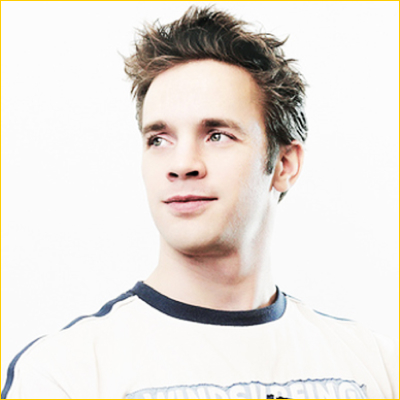
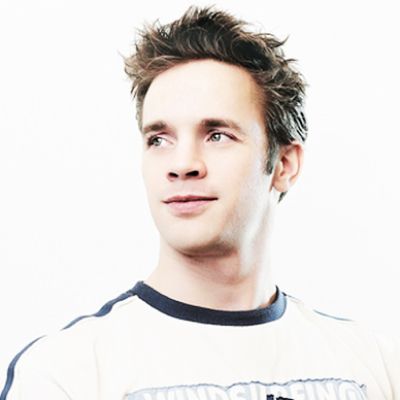
fixed after Viktor's comments

Changed region(s): [[0.0, 0.0, 1.0, 1.0], [0.0, 0.0, 0.03, 0.03]]

diff --git a/students/havrylova_kateryna/13_prepro/build/css/style.css b/students/havrylova_kateryna/13_prepro/build/css/style.css
@@ -99,17 +99,31 @@ body {
 }
 
 [class*=col-] {
-  padding: 85px;
+  padding: 15px;
   -webkit-box-sizing: border-box;
   box-sizing: border-box;
+}
+
+.person_info {
+  padding: 70px;
 }
 
 .border_right {
   border-right: 1px solid #FC0;
 }
 
+.person__photo-img {
+  border: 1px solid #FC0;
+}
+
 .person__photo {
   padding: 15px;
+  display: -webkit-box;
+  display: -ms-flexbox;
+  display: flex;
+  -webkit-box-pack: center;
+  -ms-flex-pack: center;
+  justify-content: center;
   border: 1px solid #FC0;
   position: relative;
   z-index: 1;
@@ -224,13 +238,17 @@ img {
 }
 
 .btn {
+  padding: 5px 10px;
+  background-color: white;
+  border: 1px solid var(--gold, #FC0);
+}
+
+.btn__title {
+  text-decoration: none;
   font-family: "Open Sans", Arial, Helvetica, sans-serif;
   font-size: 14px;
   color: #666;
   font-weight: 700;
   text-transform: uppercase;
-  padding: 5px 10px;
-  background-color: white;
-  border: 1px solid var(--gold, #FC0);
 }
[2 lines of base64/hex data omitted]

diff --git a/students/havrylova_kateryna/13_prepro/build/css/style.min.css b/students/havrylova_kateryna/13_prepro/build/css/style.min.css
@@ -1,1 +1,1 @@
-@font-face{font-family:Raleway,Arial,Helvetica,sans-serif;font-size:14px;font-weight:500;src:url(fonts/raleway-v28-latin-500.woff2) format("woff2")}@font-face{font-family:Roboto,Arial,Helvetica,sans-serif;font-size:60px;font-weight:900;src:url(fonts/roboto-v30-latin-900.woff2) format("woff2")}@font-face{font-family:"Open Sans",Arial,Helvetica,sans-serif;font-size:14px;font-weight:700;src:url(fonts/open-sans-v35-latin-700.woff2) format("woff2")}*{padding:0;margin:0}body{font-family:Raleway,Arial,Helvetica,sans-serif;font-size:14px;color:#333}.container{padding:70px;max-width:1170px;margin:0 auto}.head{max-width:450px;margin:auto;text-align:center}.head__subtitle{color:#898f8f;font-size:18px;text-transform:uppercase;padding-bottom:15px}.head__title{font-family:Roboto,Arial,Helvetica,sans-serif;color:#fc0;font-size:60px;text-transform:uppercase;position:relative;padding-bottom:40px}.head__title::after{content:"";width:100%;position:absolute;border-bottom:1px solid #fc0;bottom:0;right:0;left:0}.head__title::before{content:"";position:absolute;background-color:#fff;background-image:url(../images/bonfire-sharp.svg);background-repeat:no-repeat;background-position:center;min-width:20px;min-height:20px;top:93%;left:46.5%;padding:0 5px;z-index:1}.person{padding-top:40px}.row{display:-webkit-box;display:-ms-flexbox;display:flex;-ms-flex-wrap:wrap;flex-wrap:wrap;margin:0 -15px;text-align:center}.col-6{width:50%}[class*=col-]{padding:85px;-webkit-box-sizing:border-box;box-sizing:border-box}.border_right{border-right:1px solid #fc0}.person__photo{padding:15px;border:1px solid #fc0;position:relative;z-index:1}.person__photo::before{content:"";position:absolute;background:#fff center;width:50%;border:1px solid #fff;top:-1px;bottom:-1px;left:25%;z-index:-1}.person__photo::after{content:"";position:absolute;background:#fff center;height:50%;border:1px solid #fff;left:-1px;right:-1px;top:25%;z-index:-1}img{max-width:100%;z-index:1}.person__name{font-family:Roboto,Arial,Helvetica,sans-serif;font-size:36px;text-transform:capitalize;color:#666;padding-bottom:30px;position:relative}.person__name::after{content:"";position:absolute;width:50%;border-bottom:1px solid #fc0;bottom:0;right:25%}.person__position{font-family:Raleway,Arial,Helvetica,sans-serif;font-size:24px;font-weight:400;padding:30px 0;text-transform:capitalize;color:#666}.person__media{list-style-type:none;display:-webkit-box;display:-ms-flexbox;display:flex;-webkit-box-pack:center;-ms-flex-pack:center;justify-content:center;gap:5px}.person__describe{position:relative}.person__describe::after{content:"";position:absolute;border-bottom:4px solid #fc0;width:12%;bottom:-20px;right:44%;z-index:-1}.person__describe::before{content:"";position:absolute;border-bottom:5px solid #fff;width:5px;bottom:-20px;right:52.8%;z-index:1}.element{position:relative;text-align:center;padding:50px 0}.element::after{content:"";position:absolute;border-bottom:5px solid #fff;width:5px;height:4px;bottom:30px;right:46.2%;z-index:1}.btn{font-family:"Open Sans",Arial,Helvetica,sans-serif;font-size:14px;color:#666;font-weight:700;text-transform:uppercase;padding:5px 10px;background-color:#fff;border:1px solid var(--gold,#fc0)}
+@font-face{font-family:Raleway,Arial,Helvetica,sans-serif;font-size:14px;font-weight:500;src:url(fonts/raleway-v28-latin-500.woff2) format("woff2")}@font-face{font-family:Roboto,Arial,Helvetica,sans-serif;font-size:60px;font-weight:900;src:url(fonts/roboto-v30-latin-900.woff2) format("woff2")}@font-face{font-family:"Open Sans",Arial,Helvetica,sans-serif;font-size:14px;font-weight:700;src:url(fonts/open-sans-v35-latin-700.woff2) format("woff2")}*{padding:0;margin:0}body{font-family:Raleway,Arial,Helvetica,sans-serif;font-size:14px;color:#333}.container{padding:70px;max-width:1170px;margin:0 auto}.head{max-width:450px;margin:auto;text-align:center}.head__subtitle{color:#898f8f;font-size:18px;text-transform:uppercase;padding-bottom:15px}.head__title{font-family:Roboto,Arial,Helvetica,sans-serif;color:#fc0;font-size:60px;text-transform:uppercase;position:relative;padding-bottom:40px}.head__title::after{content:"";width:100%;position:absolute;border-bottom:1px solid #fc0;bottom:0;right:0;left:0}.head__title::before{content:"";position:absolute;background-color:#fff;background-image:url(../images/bonfire-sharp.svg);background-repeat:no-repeat;background-position:center;min-width:20px;min-height:20px;top:93%;left:46.5%;padding:0 5px;z-index:1}.person{padding-top:40px}.row{display:-webkit-box;display:-ms-flexbox;display:flex;-ms-flex-wrap:wrap;flex-wrap:wrap;margin:0 -15px;text-align:center}.col-6{width:50%}[class*=col-]{padding:15px;-webkit-box-sizing:border-box;box-sizing:border-box}.person_info{padding:70px}.border_right{border-right:1px solid #fc0}.person__photo-img{border:1px solid #fc0}.person__photo{padding:15px;display:-webkit-box;display:-ms-flexbox;display:flex;-webkit-box-pack:center;-ms-flex-pack:center;justify-content:center;border:1px solid #fc0;position:relative;z-index:1}.person__photo::before{content:"";position:absolute;background:#fff center;width:50%;border:1px solid #fff;top:-1px;bottom:-1px;left:25%;z-index:-1}.person__photo::after{content:"";position:absolute;background:#fff center;height:50%;border:1px solid #fff;left:-1px;right:-1px;top:25%;z-index:-1}img{max-width:100%;z-index:1}.person__name{font-family:Roboto,Arial,Helvetica,sans-serif;font-size:36px;text-transform:capitalize;color:#666;padding-bottom:30px;position:relative}.person__name::after{content:"";position:absolute;width:50%;border-bottom:1px solid #fc0;bottom:0;right:25%}.person__position{font-family:Raleway,Arial,Helvetica,sans-serif;font-size:24px;font-weight:400;padding:30px 0;text-transform:capitalize;color:#666}.person__media{list-style-type:none;display:-webkit-box;display:-ms-flexbox;display:flex;-webkit-box-pack:center;-ms-flex-pack:center;justify-content:center;gap:5px}.person__describe{position:relative}.person__describe::after{content:"";position:absolute;border-bottom:4px solid #fc0;width:12%;bottom:-20px;right:44%;z-index:-1}.person__describe::before{content:"";position:absolute;border-bottom:5px solid #fff;width:5px;bottom:-20px;right:52.8%;z-index:1}.element{position:relative;text-align:center;padding:50px 0}.element::after{content:"";position:absolute;border-bottom:5px solid #fff;width:5px;height:4px;bottom:30px;right:46.2%;z-index:1}.btn{padding:5px 10px;background-color:#fff;border:1px solid var(--gold,#fc0)}.btn__title{text-decoration:none;font-family:"Open Sans",Arial,Helvetica,sans-serif;font-size:14px;color:#666;font-weight:700;text-transform:uppercase}

diff --git a/students/havrylova_kateryna/13_prepro/build/index.html b/students/havrylova_kateryna/13_prepro/build/index.html
@@ -11,22 +11,22 @@
 <body>
     <main class="main">
         <div class="container">
-            <section class="head">
+            <div class="head">
                 <p class="head__subtitle">
                     The geniuses behind our work
                 </p>
                 <h1 class="head__title">
                     Our team
                 </h1>
-            </section>
+            </div>
 
             <section class="person">
                 <div class="row">
-
                     <div class="col-6 border_right">
-                        <div class="person__photo">
-
-                            <img src="./images/photo.jpg" alt="">
+                        <div class="person_info">
+                            <div class="person__photo">
+                                <img class="person__photo-img" src="./images/photo.jpg" alt="">
+                            </div>
                         </div>
                     </div>
 
@@ -52,6 +52,7 @@
                                     <img class="media__item__img" src="./images/linkedin.svg" alt="">
                                 </li>
                             </ul>
+                            <!-- div class="element" не зайвий - я за допомогою нього робила псевдоелементи, бо іншого виходу не знайшла, як зробити псевдоелемент не малюнком, а поєднанням жовтої лінії з білими використовуючи before + after -->
                             <div class="element">
                                 <p class="person__describe">
                                     Lorem ipsum dolor sit amet, consectetur adipiscing elit. Duis cursus dui sit amet
@@ -64,7 +65,8 @@
                                 </p>
                             </div>
                             <button class="btn">
-                                view profile
+                                <a class="btn__title" href="#">view profile</a>
+
                             </button>
                         </div>
                     </div>

diff --git a/students/havrylova_kateryna/13_prepro/src/index.html b/students/havrylova_kateryna/13_prepro/src/index.html
@@ -11,22 +11,22 @@
 <body>
     <main class="main">
         <div class="container">
-            <section class="head">
+            <div class="head">
                 <p class="head__subtitle">
                     The geniuses behind our work
                 </p>
                 <h1 class="head__title">
                     Our team
                 </h1>
-            </section>
+            </div>
 
             <section class="person">
                 <div class="row">
-
                     <div class="col-6 border_right">
-                        <div class="person__photo">
-
-                            <img src="./images/photo.jpg" alt="">
+                        <div class="person_info">
+                            <div class="person__photo">
+                                <img class="person__photo-img" src="./images/photo.jpg" alt="">
+                            </div>
                         </div>
                     </div>
 
@@ -52,6 +52,7 @@
                                     <img class="media__item__img" src="./images/linkedin.svg" alt="">
                                 </li>
                             </ul>
+                            <!-- div class="element" не зайвий - я за допомогою нього робила псевдоелементи, бо іншого виходу не знайшла, як зробити псевдоелемент не малюнком, а поєднанням жовтої лінії з білими використовуючи before + after -->
                             <div class="element">
                                 <p class="person__describe">
                                     Lorem ipsum dolor sit amet, consectetur adipiscing elit. Duis cursus dui sit amet
@@ -64,7 +65,8 @@
                                 </p>
                             </div>
                             <button class="btn">
-                                view profile
+                                <a class="btn__title" href="#">view profile</a>
+
                             </button>
                         </div>
                     </div>

diff --git a/students/havrylova_kateryna/13_prepro/src/css/_person.scss b/students/havrylova_kateryna/13_prepro/src/css/_person.scss
@@ -14,17 +14,26 @@
 }
 
 [class*="col-"] {
-    padding: 85px;
+    padding: 15px;
     box-sizing: border-box;
+}
+
+.person_info {
+    padding: 70px;
 }
 
 .border_right {
     border-right: 1px solid $color-gold;
 }
 
+.person__photo-img {
+    border: 1px solid $color-gold;
+}
 
 .person__photo {
     padding: 15px;
+    display: flex;
+    justify-content: center;
     border: 1px solid $color-gold;
     position: relative;
     z-index: 1;
@@ -140,12 +149,16 @@ img {
 }
 
 .btn {
+    padding: 5px 10px;
+    background-color: $color-bg;
+    border: 1px solid var(--gold, #FC0);
+}
+
+.btn__title {
+    text-decoration: none;
     font-family: $font-btn;
     font-size: $font-size-14;
     color: $color-title;
     font-weight: 700;
     text-transform: uppercase;
-    padding: 5px 10px;
-    background-color: $color-bg;
-    border: 1px solid var(--gold, #FC0);
 }
